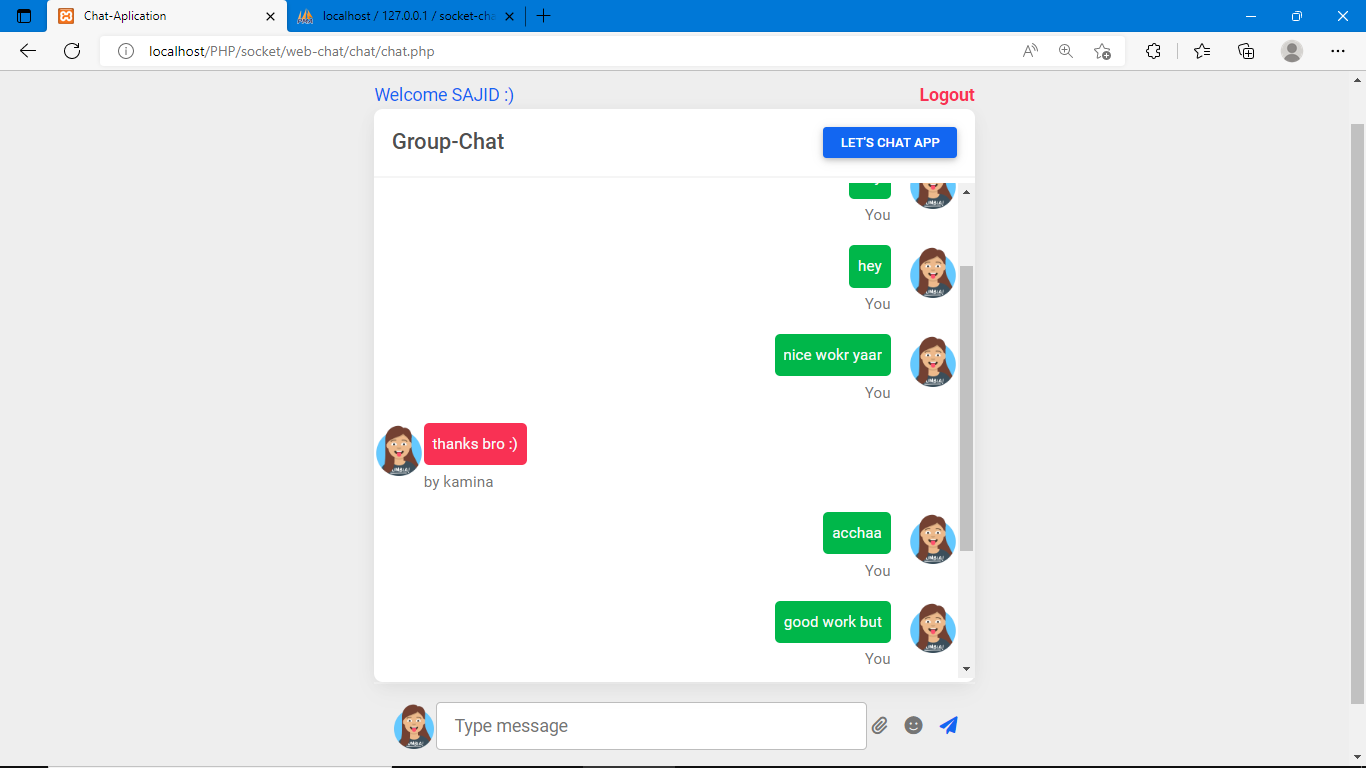
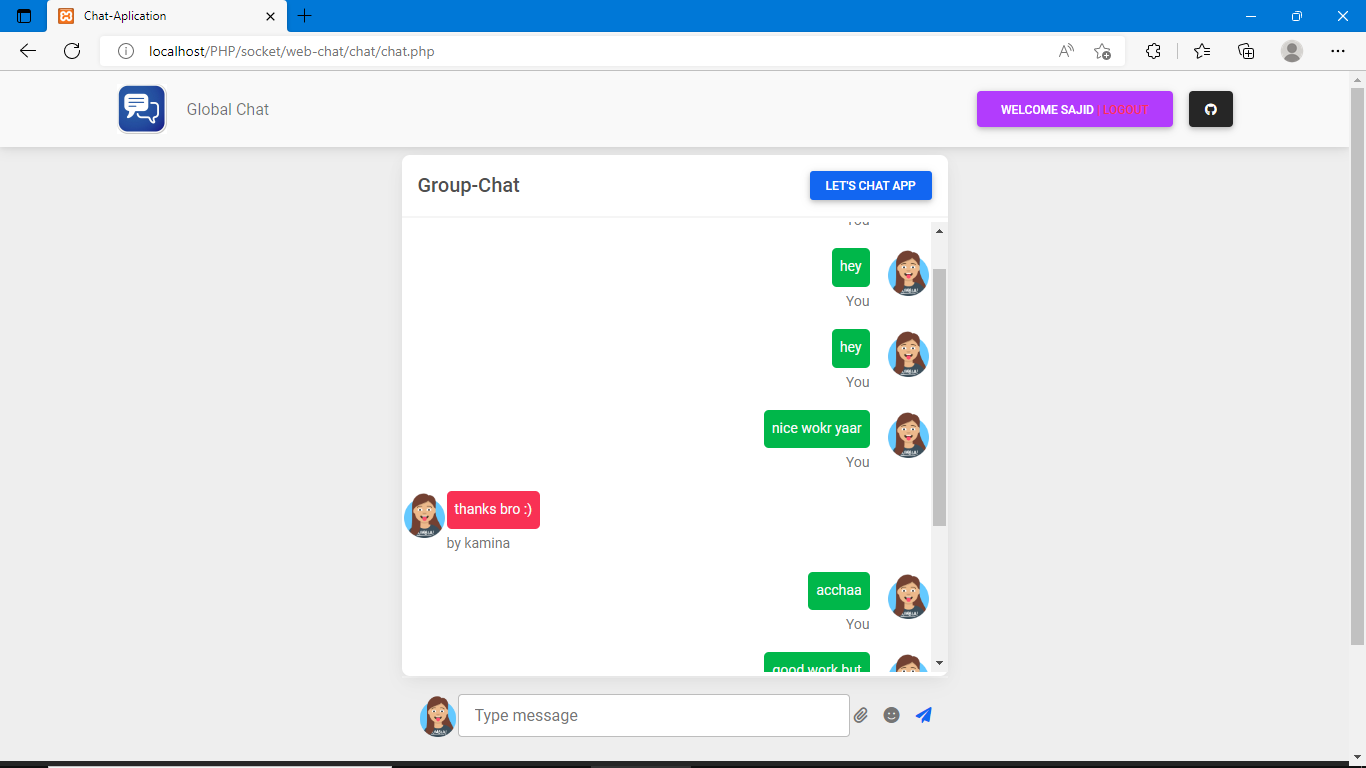
formating updated

diff --git a/readme.md b/readme.md
@@ -30,14 +30,11 @@ Password : 1234
 
 ## Demo Pictures
 
-<img src="https://github.com/dontKnew/web-chat-with-php-socket/tree/master/public/image/screenshot/login.png"/>
-<img src="https://github.com/dontKnew/web-chat-with-php-socket/tree/master/public/image/screenshot/register.png"/>
-<img src="https://github.com/dontKnew/web-chat-with-php-socket/tree/master/public/image/screenshot/chatroom.png"/>
-<!-- <img src="https://github.com/dontKnew/web-chat-with-php-socket/tree/master/public/image/screenshot/reset-pass.png"/>
-<img src="https://github.com/dontKnew/web-chat-with-php-socket/tree/master/public/image/screenshot/dashboard.png"/>
-<img src="https://github.com/dontKnew/web-chat-with-php-socket/tree/master/public/image/screenshot/changepass.png"/>
-<img src="https://github.com/dontKnew/web-chat-with-php-socket/tree/master/public/image/screenshot/expense.png"/>
-<img src="https://github.com/dontKnew/web-chat-with-php-socket/tree/master/public/image/screenshot/profile.png"/> -->
+<img src="https://github.com/dontKnew/web-chat-with-php-socket/blob/master/public/image/screenshot/login.png"/>
+<img src="https://github.com/dontKnew/web-chat-with-php-socket/blob/master/public/image/screenshot/register.png"/>
+<img src="https://github.com/dontKnew/web-chat-with-php-socket/blob/master/public/image/screenshot/changepassword.png"/>
+<img src="https://github.com/dontKnew/web-chat-with-php-socket/blob/master/public/image/screenshot/forget.png"/>
+<img src="https://github.com/dontKnew/web-chat-with-php-socket/blob/master/public/image/screenshot/chatroom.png"/>
 
 
 ### For More details email to israfil123.sa@gmail.com or contact us
